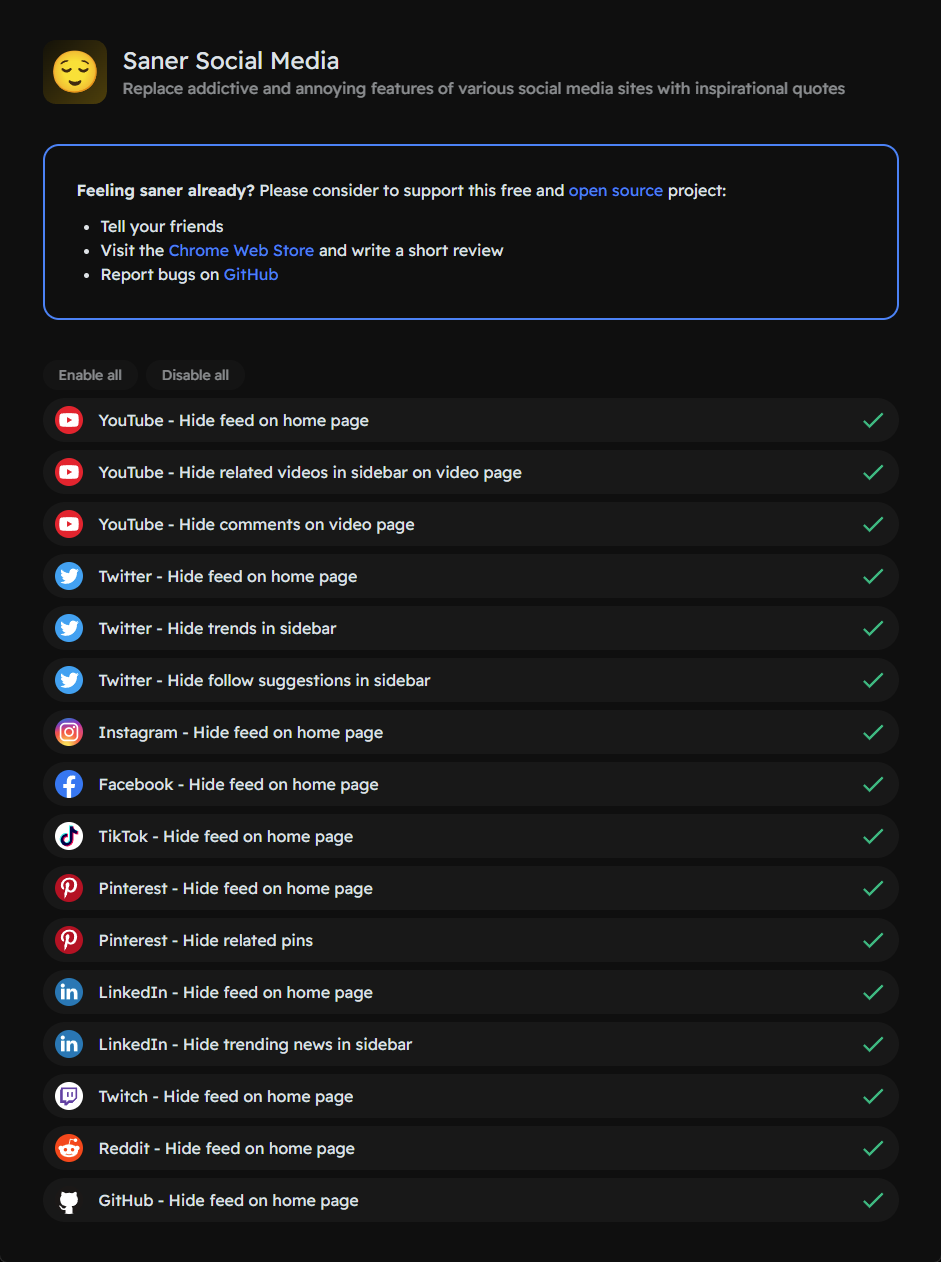
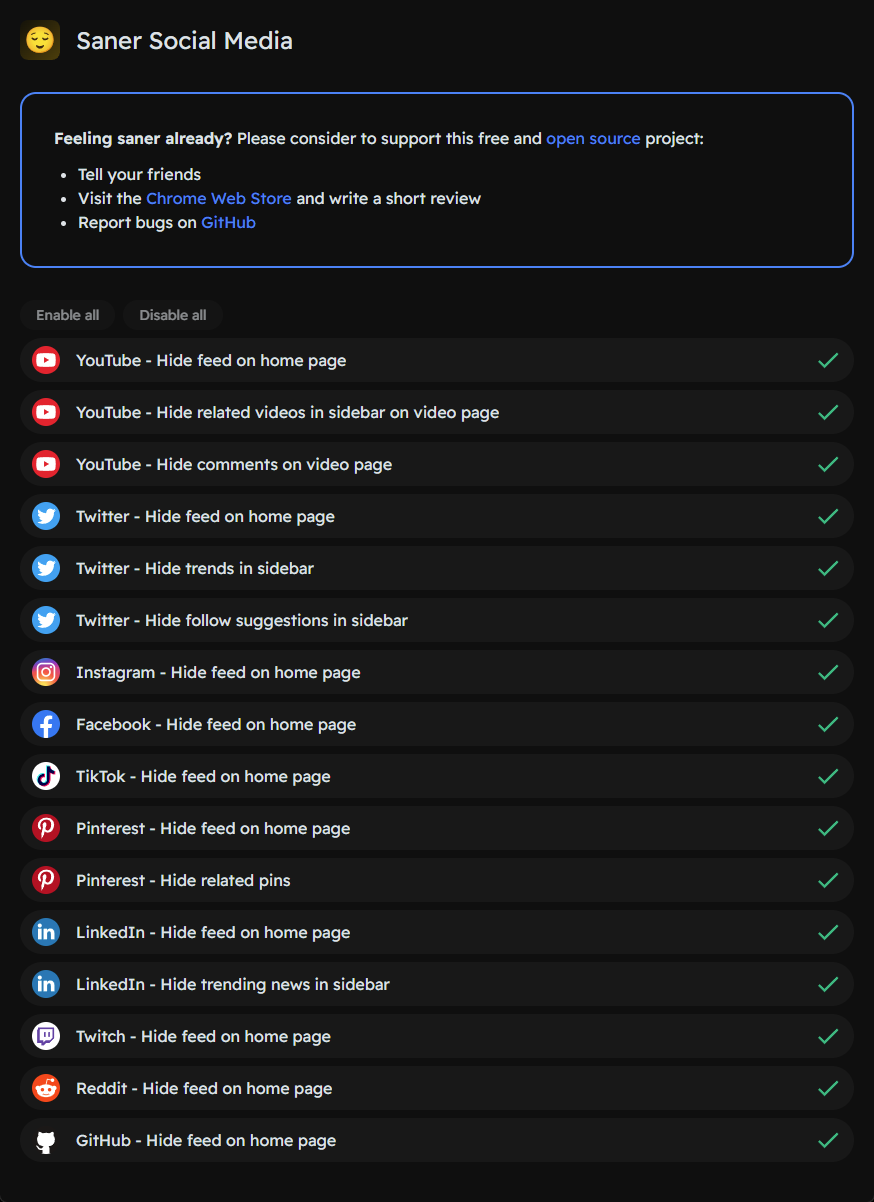
update extension description

diff --git a/src/options/App.vue b/src/options/App.vue
@@ -53,25 +53,21 @@ async function disableAll() {
 
 const chromeWebStoreUrl = 'https://chrome.google.com/webstore/detail/saner-social-media/opnoobcmpioggidgaejfkbopdphbfkkk'
 const gitHubUrl = 'https://github.com/tobidalhof/sanersocialmedia'
-const gitHubIssuesUrl = 'https://github.com/tobidalhof/sanersocialmedia/issues'
 </script>
 
 <template>
   <div v-if="ready" class="container max-w-4xl mx-auto p-5">
-    <header class="flex items-center py-5">
-      <img src="./images/logo.svg" alt="Saner Social Media" class="w-16 mr-4">
+    <header class="flex items-center pb-8">
+      <img src="./images/logo.svg" alt="Saner Social Media" class="w-10 mr-4">
       <div>
         <div class="text-2xl">
           <span>Saner Social Media</span>
-        </div>
-        <div class="opacity-60">
-          <span>Replace addictive and annoying features of various social media sites with inspirational quotes</span>
         </div>
       </div>
     </header>
 
     <section>
-      <div class="mt-5 mb-10 p-8 border-2 border-blue-500 rounded-2xl">
+      <div class="mb-8 p-8 border-2 border-blue-500 rounded-2xl">
         <div>
           <span class="font-bold">Feeling saner already?</span> Please consider to support this free and
           <a :href="gitHubUrl" target="_blank" class="text-blue-500">open source</a>
@@ -86,7 +82,7 @@ const gitHubIssuesUrl = 'https://github.com/tobidalhof/sanersocialmedia/issues'
           </li>
           <li>
             Report bugs on
-            <a :href="gitHubIssuesUrl" target="_blank" class="text-blue-500">GitHub</a>
+            <a :href="gitHubUrl" target="_blank" class="text-blue-500">GitHub</a>
           </li>
         </ul>
       </div>
